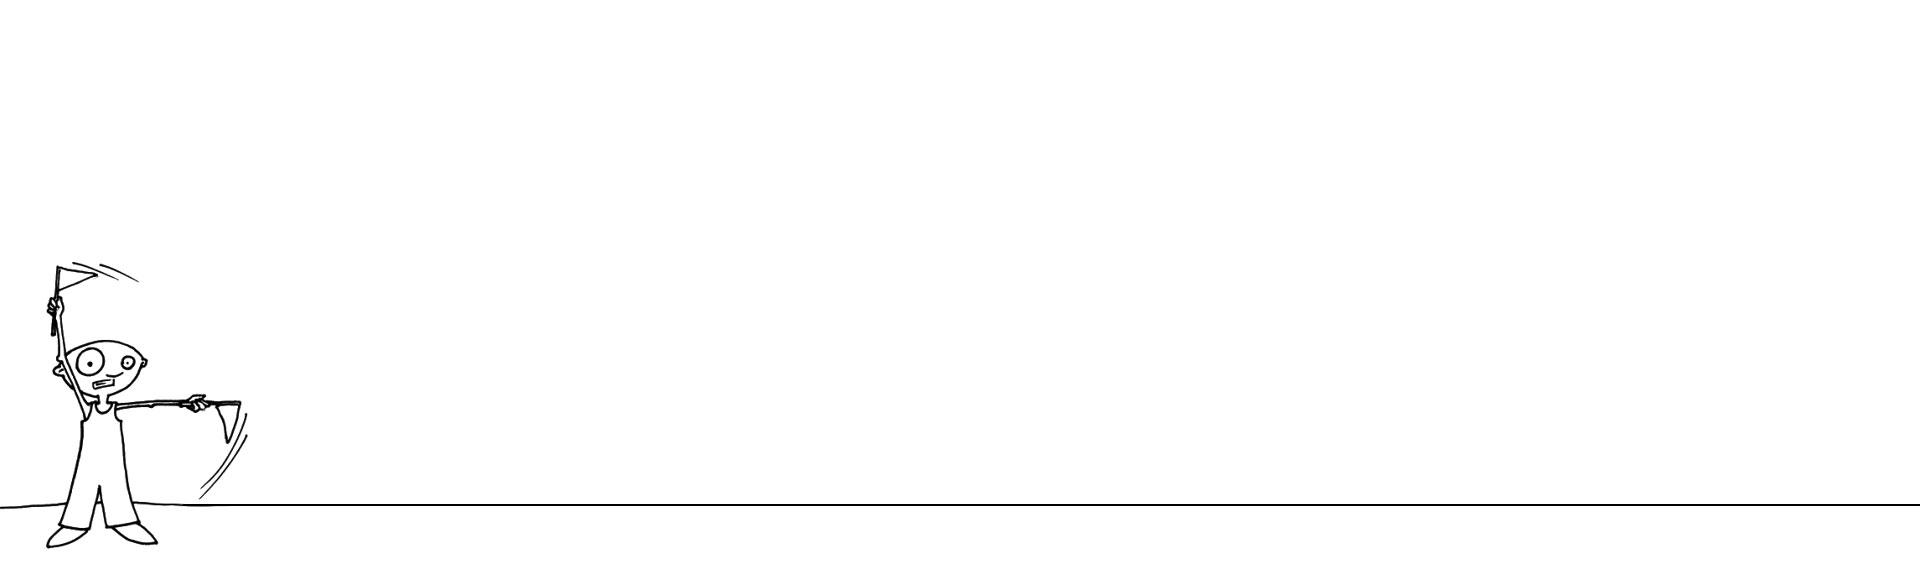
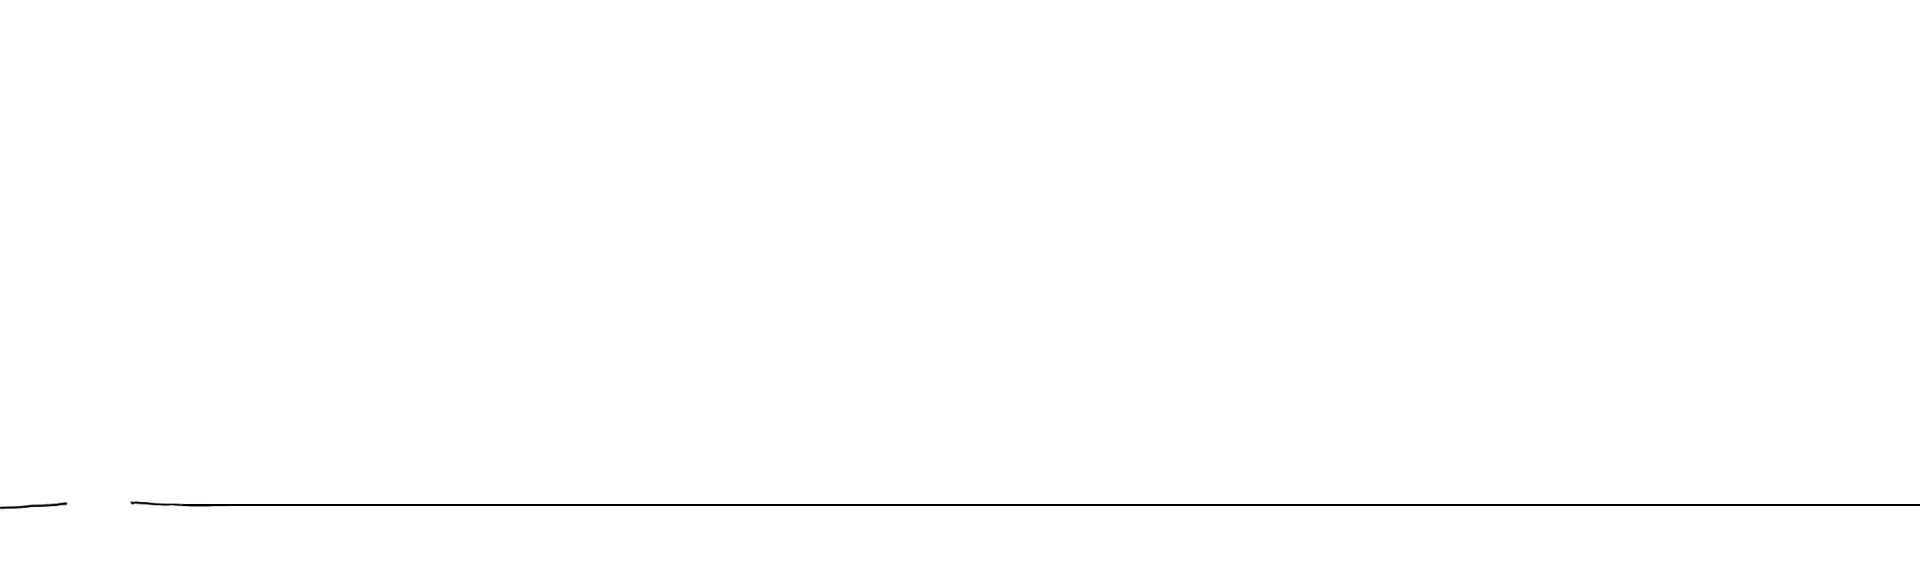
Fix All

diff --git a/css/main.css b/css/main.css
@@ -907,7 +907,7 @@ BODY.event_black_bg {
   position: absolute;
   z-index: 999;
   left: 180px;
-  bottom: 95px;
+  bottom: 86px;
 }
 #wrapper_suvenirka .online A {
 	display: block;
@@ -1040,6 +1040,15 @@ BODY.event_black_bg {
   background: url(../images/bg_reclama.jpg) no-repeat 0 98%;
   position: relative;
 }
+.reklama_body .man_reclama {
+  width: 248px;
+  height: 287px;
+  background: url(../images/man_reclama.png) no-repeat 0 0;
+  position: absolute;
+  z-index: 999;
+  left: 0;
+  bottom: 2px;
+}
 #wrapper_reklama {
   min-width: 1000px;
 }
@@ -1059,7 +1068,7 @@ BODY.event_black_bg {
 }
 #header_reclama .menu_reclama {
   width: 900px;
-	padding: 35px 0 0 0;
+	padding: 35px 0 0 150px;
   margin: 0 auto;
   font: 12px arial;
 	color: #000;
@@ -1753,16 +1762,6 @@ BODY.event_black_bg {
   top: 422px;
   left: 163px;
 }
-#wrapper_noname .aforizm_glavnaya {
-	width: 338px;
-  font: 14px arial;
-  color: #393939;
-  text-align: center;
-  position: absolute;
-  top: 470px;
-  left: 584px;
-}
-
 #wrapper_noname  .razrabotka {
   font: 10px arial;
   color: #393939;
@@ -1770,10 +1769,26 @@ BODY.event_black_bg {
   top: 546px;
   left: 70px;
 }
-#wrapper_noname  .razrabotka A{
+#wrapper_noname  .razrabotka A {
   color: #FF2424;
 }
- 
+#wrapper_noname .right_noname {
+  padding-top: 228px;
+  margin-left: 312px;
+}
+#wrapper_noname .right_noname .man_noname {
+  width: 398px;
+  height: 239px;
+  margin: 0 auto;
+  background: url(../images/bg_right-no-neme.jpg) no-repeat 0 0;
+}
+#wrapper_noname .aforizm_glavnaya {
+	width: 338px;
+  font: 14px/20px arial;
+  color: #393939;
+  margin: 0 auto;
+  text-align: center;
+} 
 
 /* noname */
 

diff --git a/noname.html b/noname.html
@@ -22,8 +22,10 @@
     <div class="contacts"></div>
     <div><a class="skype" href="#"></a></div>
     <div class="razrabotka">дизайн и разработка МРК <a href="#">Profit,</a> 2012</div>
-    <div class="aforizm_glavnaya">"Без рекламы произойдет самое УЖАСНОЕ -<br />не произойдет ничего".</div>
-    
+    <div class="right_noname">
+      <div class="man_noname"></div>
+      <div class="aforizm_glavnaya">"Без рекламы произойдет самое УЖАСНОЕ -<br />не произойдет ничего".</div>
+    </div>
     <a class="ssilka1" href="#">дизайн</a>
     <a class="ssilka2" href="#">тексты</a>
     <a class="ssilka3" href="#">портфолио</a>

diff --git a/narugnaya_reklama.html b/narugnaya_reklama.html
@@ -13,6 +13,7 @@
 <body class="reklama_body">
 	<div id="wrapper_reklama">
     <a class="logo_reklama" href="#"></a>
+    <div class="man_reclama"></div>
     <div id="header_reclama">
 			<div class="menu_reclama">
 				<a href="#">портфолио</a>
